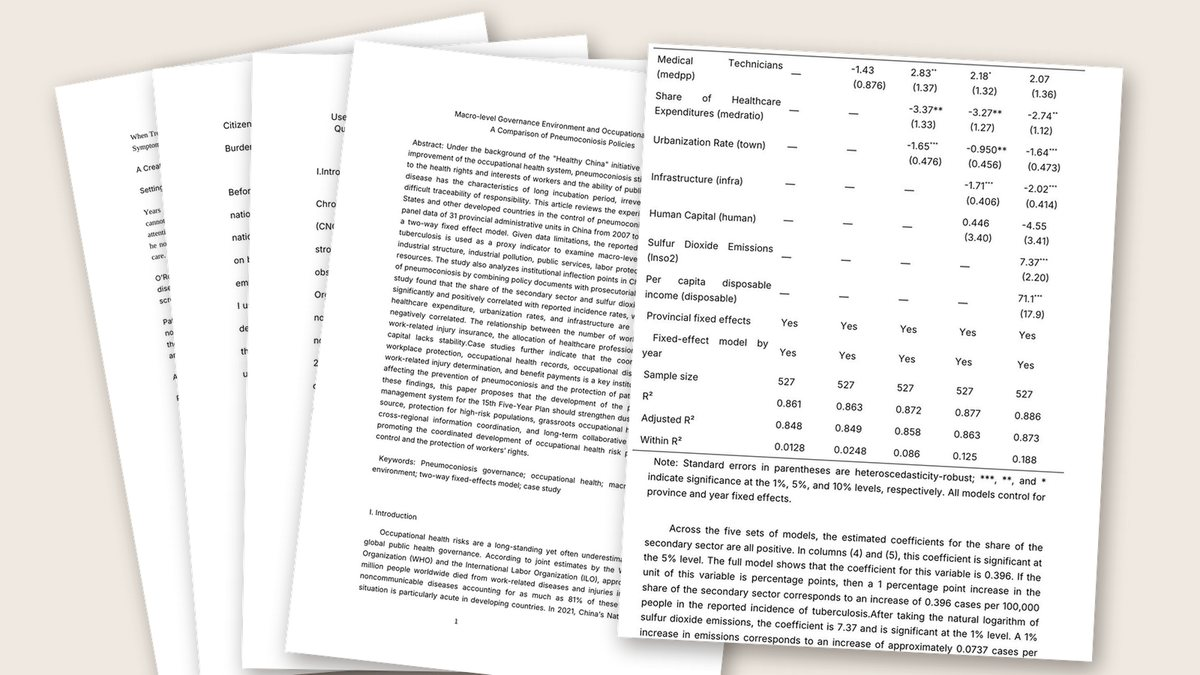
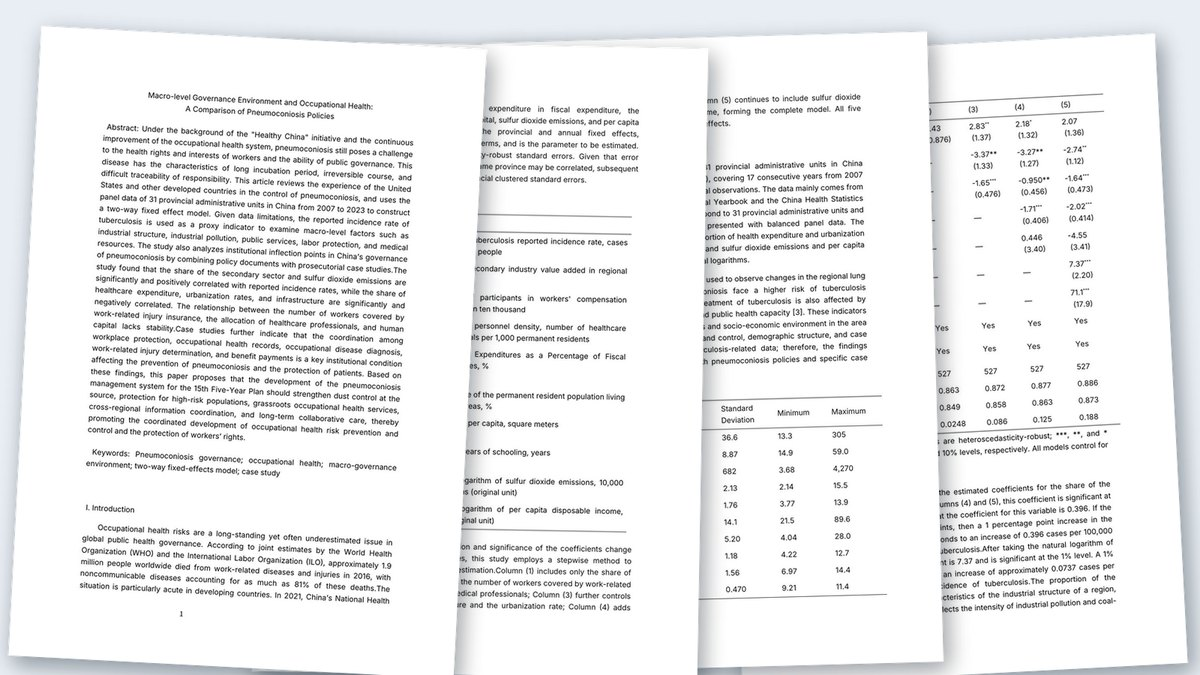
Prototype photos in one row with larger captions; research card shows pneumoconiosis paper cover then data tables; design card uses real prototype photo
Claude-Session: https://claude.ai/code/session_01Ta1jLiALvC4QfwPrhgQgoh

diff --git a/assets/css/main.scss b/assets/css/main.scss
@@ -327,9 +327,9 @@ html {
 .page__content .gallery figcaption,
 .page__content figure figcaption {
   font-family: $sans-serif;
-  font-size: 0.82em;
+  font-size: 0.9em;
   line-height: 1.5;
-  color: #5a6470;
+  color: #4a5562;
   margin-top: 0.6em;
 }
 
@@ -370,4 +370,24 @@ html {
 
   &--contain a { background: #fff; border: 1px solid #e8ebee; }
   &--contain img { object-fit: contain; padding: 4%; }
+}
+
+.media-grid--three {
+  grid-template-columns: repeat(3, minmax(0, 1fr));
+  @media (max-width: 800px) { grid-template-columns: 1fr; }
+}
+
+/* single centred image, e.g. the concept rendering */
+.media-single {
+  max-width: 460px;
+  margin: 1.5em auto 0.5em !important;
+  text-align: center;
+  a {
+    display: block;
+    border: 1px solid #e8ebee;
+    border-radius: 8px;
+    background: #fff;
+    padding: 1em;
+  }
+  img { max-height: 320px; width: auto; margin: 0 auto; }
 }

diff --git a/_pages/design.md b/_pages/design.md
@@ -20,11 +20,12 @@ These projects turn what I learned in research and fieldwork into things people 
 
 I am developing a wearable dust detector and companion app for stone-cutting workers. The device monitors PM2.5 and PM10 and gives light and sound alerts when dust levels are high, so that changes in exposure are easier to notice during work. The app tracks dust trends over time and shows device status and health guidance. The design grew out of my fieldwork on pneumoconiosis and my interest in making occupational exposure visible.
 
-<div class="media-grid">
-  <figure class="media-grid__item media-grid__item--contain">
-    <a href="{{ "/assets/images/portfolio/wearable-exploded.webp" | relative_url }}"><img src="{{ "/assets/images/portfolio/wearable-exploded.webp" | relative_url }}" alt="Exploded concept rendering of the wearable dust detector" loading="lazy"></a>
-    <figcaption>Concept rendering: enclosure, indicator lights, electronics, sensor, battery and vibration module</figcaption>
-  </figure>
+<figure class="media-single">
+  <a href="{{ "/assets/images/portfolio/wearable-exploded.webp" | relative_url }}"><img src="{{ "/assets/images/portfolio/wearable-exploded.webp" | relative_url }}" alt="Exploded concept rendering of the wearable dust detector" loading="lazy"></a>
+  <figcaption>Concept rendering: enclosure, indicator lights, electronics, sensor, battery and vibration module</figcaption>
+</figure>
+
+<div class="media-grid media-grid--three">
   <figure class="media-grid__item">
     <a href="{{ "/assets/images/portfolio/detector/detector-prototype.jpg" | relative_url }}"><img src="{{ "/assets/images/portfolio/detector/detector-prototype.jpg" | relative_url }}" alt="Working prototype with dust sensor, LED alert module and vibration motor wired to a microcontroller board" loading="lazy"></a>
     <figcaption>Working prototype: dust sensor, LED alert lights and vibration motor</figcaption>
